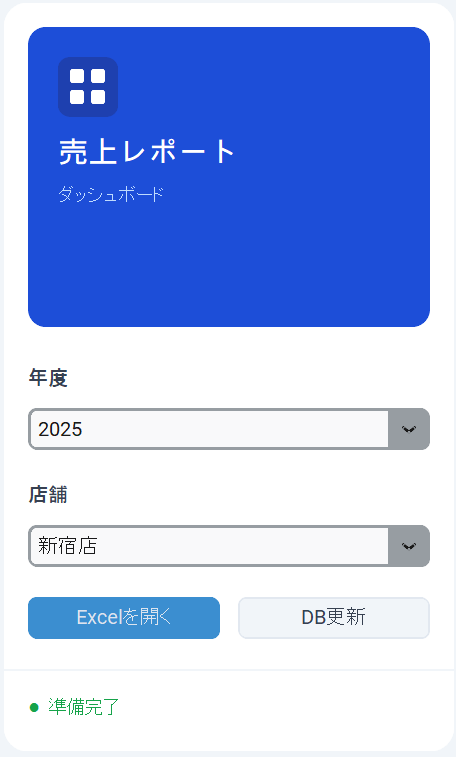
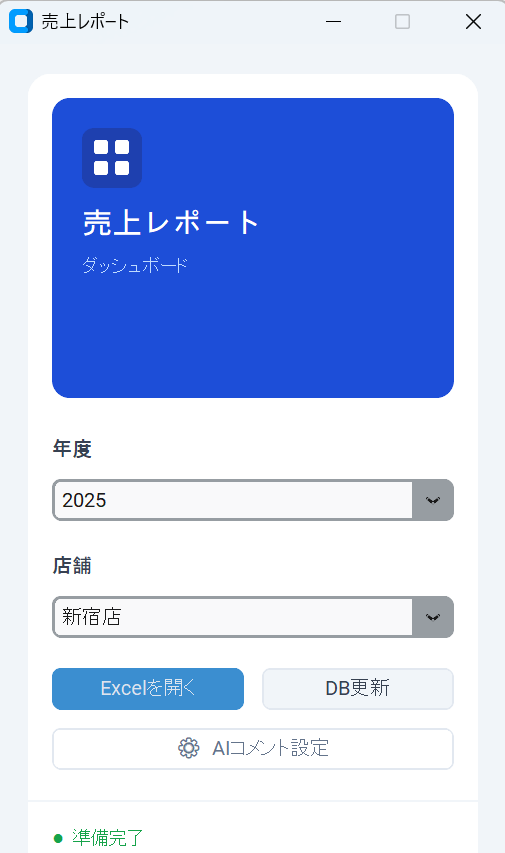
feat: KPIダッシュボードにAI自動コメント機能を追加
- ai_commentary.py: Claude API (claude-sonnet-4-6) でKPIを要約した
  日本語コメントを生成。金額は万円単位に整形し単位換算ミスを防止
- app_config.py + GUI設定ダイアログ: BYOキー方式（config.jsonに保存）の
  オプトイン。APIキー未設定・anthropic未導入・通信エラー時は従来通り
  レポートのみ生成するフォールバック
- sales_report.spec: anthropicライブラリを同梱（APIキーは非同梱）
- README: タイトル・機能説明・使い方・技術スタックにAI機能を追記
- .gitignore: config.json（APIキー）を除外

diff --git a/app/ai_commentary.py b/app/ai_commentary.py
@@ -1,0 +1,94 @@
+"""
+KPIダッシュボード向け AIコメント生成（任意機能）
+
+オフライン・単一exeという基本動作を壊さないため、この機能は完全にオプトインです:
+  - GUIの「AIコメント設定」で有効化＋APIキーを保存（config.json）した場合に動作
+  - CLI等でGUIを使わない場合は、環境変数 ANTHROPIC_API_KEY だけでも動作（後方互換）
+  - キーが無い / 無効 / ネットが無い / API がエラー の場合は None を返すだけ
+    （呼び出し側はコメント欄を出さず、従来通りのレポートを生成する）
+
+モデルは claude-sonnet-4-6 を使用。
+"""
+import os
+
+from app_config import load_config
+
+MODEL = "claude-sonnet-4-6"
+
+MONTH_NAMES = ["1月", "2月", "3月", "4月", "5月", "6月",
+               "7月", "8月", "9月", "10月", "11月", "12月"]
+
+_SYSTEM = (
+    "あなたは小売業の売上データを分析するアナリストです。"
+    "与えられた年間KPIをもとに、経営者向けの簡潔な日本語コメントを作成してください。\n"
+    "要件:\n"
+    "- 2〜3文、合計150字程度の文章で書く。\n"
+    "- 傾向・注目点を述べ、最後に次の打ち手を1つ含める。\n"
+    "- 数値は要点だけに絞り、冗長な説明や前置きは書かない。\n"
+    "- 金額は与えられた『万円』単位の数値をそのまま使い、億・百万などへ単位変換しない。\n"
+    "- 箇条書き・Markdown記法（#, *, -, ** 等）は使わず、本文のみを返す。"
+)
+
+
+def _man(value: int) -> str:
+    """円 → 万円（四捨五入）に整形。大きな桁数による単位換算ミスを防ぐ。"""
+    return f"{round(value / 10000):,}万円"
+
+
+def _build_prompt(kpi: dict) -> str:
+    monthly = "、".join(
+        f"{MONTH_NAMES[i]}:{_man(v)}" for i, v in enumerate(kpi["monthly_sales"])
+    )
+    ranking = "、".join(
+        f"{i + 1}位 {store}（{_man(sales)}）"
+        for i, (store, sales) in enumerate(kpi["store_ranking"][:3])
+    )
+    mom = kpi["last_month_mom"]
+    mom_str = f"{mom * 100:+.1f}%"
+    return (
+        "※金額はすべて『万円』単位。本文でもこの単位のまま使うこと。\n"
+        f"対象年度: {kpi['year']}年\n"
+        f"年間総売上（全店舗合計）: {_man(kpi['total_annual'])}\n"
+        f"月別売上: {monthly}\n"
+        f"最高月: {MONTH_NAMES[kpi['best_month'] - 1]}（{_man(kpi['best_sales'])}）\n"
+        f"最低月: {MONTH_NAMES[kpi['worst_month'] - 1]}（{_man(kpi['worst_sales'])}）\n"
+        f"月平均売上: {_man(kpi['avg_month'])}\n"
+        f"店舗別年間売上ランキング: {ranking}\n"
+        f"平均客単価: {kpi['avg_unit_price']:,}円\n"
+        f"年間総客数: {kpi['total_customers']:,}人\n"
+        f"直近の前月比（12月／11月）: {mom_str}\n"
+    )
+
+
+def generate_kpi_commentary(kpi: dict) -> str | None:
+    """KPI辞書からAIコメントを生成して返す。
+
+    APIキーが無い・anthropic未導入・通信失敗などの場合は None を返す
+    （例外は送出せず、レポート生成を止めない）。
+    """
+    cfg = load_config()
+    env_key = (os.environ.get("ANTHROPIC_API_KEY") or "").strip()
+    key = (cfg.get("api_key") or "").strip() or env_key
+    if not key:
+        return None
+
+    # 有効化判定: GUIトグルが優先。configが無い/未設定でも、環境変数があればCLI後方互換でオン。
+    enabled = bool(cfg.get("ai_enabled", False)) or bool(env_key)
+    if not enabled:
+        return None
+
+    try:
+        import anthropic  # 遅延インポート: 未導入でもオフライン動作を壊さない
+
+        client = anthropic.Anthropic(api_key=key)
+        message = client.with_options(timeout=20.0, max_retries=1).messages.create(
+            model=MODEL,
+            max_tokens=512,
+            system=_SYSTEM,
+            messages=[{"role": "user", "content": _build_prompt(kpi)}],
+        )
+        text = next((b.text for b in message.content if b.type == "text"), "").strip()
+        return text or None
+    except Exception:
+        # ネットワーク断・APIエラー・キー不正などはすべて無視してコメントなしに倒す
+        return None

diff --git a/app/generate_report.py b/app/generate_report.py
@@ -30,6 +30,8 @@ from openpyxl.formatting.rule import CellIsRule, ColorScaleRule
 from openpyxl.styles import Alignment, Border, Font, PatternFill, Side
 from openpyxl.utils import get_column_letter
 
+from ai_commentary import generate_kpi_commentary
+
 MONTH_NAMES = ["1月", "2月", "3月", "4月", "5月", "6月",
                "7月", "8月", "9月", "10月", "11月", "12月"]
 
@@ -72,10 +74,22 @@ def _yen_str(value: int) -> str:
 
 # ── ヘルパー ──────────────────────────────────────────────────────────────
 
+def _read_csv_auto(path: Path) -> pd.DataFrame:
+    """UTF-8 → Shift_JIS(cp932) の順に試して読み込む。
+    Excelの「CSV UTF-8」も「CSV (カンマ区切り)」も両方扱えるようにする。
+    """
+    for enc in ("utf-8-sig", "cp932"):
+        try:
+            return pd.read_csv(path, encoding=enc, parse_dates=["日付"])
+        except UnicodeDecodeError:
+            continue
+    raise ValueError(f"{path.name}: 文字コードを判定できません（UTF-8 / Shift_JIS のいずれかで保存してください）")
+
+
 def load_csv_files(input_dir: Path, year: int) -> pd.DataFrame:
     frames = []
     for csv_path in sorted(input_dir.glob("*.csv")):
-        df = pd.read_csv(csv_path, encoding="utf-8-sig", parse_dates=["日付"])
+        df = _read_csv_auto(csv_path)
         frames.append(df)
     if not frames:
         raise FileNotFoundError(f"CSVファイルが見つかりません: {input_dir}")
@@ -98,7 +112,7 @@ def import_csv_to_db(input_dir: Path, db_path: Path = DB_PATH) -> None:
     REQUIRED = {"日付", "店舗名", "売上金額", "客数"}
     frames = []
     for csv_path in sorted(input_dir.glob("*.csv")):
-        df = pd.read_csv(csv_path, encoding="utf-8-sig", parse_dates=["日付"])
+        df = _read_csv_auto(csv_path)
         missing = REQUIRED - set(df.columns)
         if missing:
             raise ValueError(f"{csv_path.name}: 必須列が不足しています → {', '.join(sorted(missing))}")
@@ -263,6 +277,40 @@ def _color_scale(ws, cell_range: str):
         mid_type="percentile", mid_value=50, mid_color="E2E8F0",
         end_type="max",        end_color="C6EFCE",
     ))
+
+
+def _write_ai_insight(ws, text: str, start_row: int = 21):
+    """AI生成コメントを start_row 以降に1ブロック書き込む（凡例の下に配置）"""
+    ws.row_dimensions[start_row - 1].height = 8  # スペーサー
+
+    # ── 見出し ──
+    ws.row_dimensions[start_row].height = 22
+    ws.merge_cells(start_row=start_row, start_column=1, end_row=start_row, end_column=13)
+    h = ws.cell(row=start_row, column=1, value="💡 AIインサイト（自動生成コメント）")
+    h.font = Font(bold=True, size=11, color="FFFFFF")
+    h.fill = PatternFill("solid", fgColor="2E75B6")
+    h.alignment = Alignment(horizontal="center", vertical="center")
+
+    # ── 本文（折り返し表示）──
+    body_start, body_end = start_row + 1, start_row + 5
+    for r in range(body_start, body_end + 1):
+        ws.row_dimensions[r].height = 18
+    ws.merge_cells(start_row=body_start, start_column=1, end_row=body_end, end_column=13)
+    c = ws.cell(row=body_start, column=1, value=text)
+    c.font = Font(size=10, color="1F2937")
+    c.fill = PatternFill("solid", fgColor="EBF3FB")
+    c.alignment = Alignment(horizontal="left", vertical="top", wrap_text=True)
+
+    # ── 枠線（結合範囲の外周）──
+    med, no = Side(style="medium"), Side(style=None)
+    for r in range(body_start, body_end + 1):
+        for col in range(1, 14):
+            ws.cell(row=r, column=col).border = Border(
+                left=med if col == 1 else no,
+                right=med if col == 13 else no,
+                top=med if r == body_start else no,
+                bottom=med if r == body_end else no,
+            )
 
 
 # ── シート生成 ─────────────────────────────────────────────────────────────
@@ -449,6 +497,23 @@ def write_kpi_sheet(wb: Workbook, data: pd.DataFrame,
     # 凡例行の全セルに枠線を付与（結合末尾セルの右枠含む）
     for col in range(1, 14):
         ws.cell(row=19, column=col).border = BORDER
+
+    # ── AIインサイト（任意・環境変数 ANTHROPIC_API_KEY がある場合のみ）──
+    kpi_summary = {
+        "year": year,
+        "total_annual": total_annual,
+        "monthly_sales": _sales_vals,
+        "best_month": best_m,   "best_sales": _best_s,
+        "worst_month": worst_m, "worst_sales": _worst_s,
+        "avg_month": avg_m,
+        "store_ranking": [(store, int(sales)) for store, sales in store_annual.items()],
+        "avg_unit_price": avg_unit_price,
+        "total_customers": total_customers,
+        "last_month_mom": dec_mom - 1.0,
+    }
+    commentary = generate_kpi_commentary(kpi_summary)
+    if commentary:
+        _write_ai_insight(ws, commentary)
 
 
 def write_summary_sheet(wb: Workbook, sales_pivot: pd.DataFrame,

diff --git a/app/app_config.py b/app/app_config.py
@@ -1,0 +1,44 @@
+"""
+アプリ設定の読み書き（AIコメント機能のオン/オフ・APIキー）
+
+設定は exe（開発時はプロジェクトルート）の隣の config.json に保存する。
+ファイルが無ければ空dictを返し、呼び出し側は従来動作（環境変数のみ）に倒れる。
+"""
+import json
+import sys
+from pathlib import Path
+
+_BASE = Path(sys.executable).parent if getattr(sys, "frozen", False) else Path(__file__).parent.parent
+CONFIG_PATH = _BASE / "config.json"
+
+
+def load_config() -> dict:
+    """config.json を読み込む。存在しない・壊れている場合は {} を返す。"""
+    if not CONFIG_PATH.exists():
+        return {}
+    try:
+        data = json.loads(CONFIG_PATH.read_text(encoding="utf-8"))
+        return data if isinstance(data, dict) else {}
+    except Exception:
+        return {}
+
+
+def save_config(ai_enabled: bool, api_key: str, key_name: str | None = None) -> None:
+    """AI設定を config.json に保存する。
+
+    key_name は管理用メモ（任意・動作には不使用）。None のときは
+    既存の config.json の値を引き継ぐ（GUI保存で手書きのメモが消えない）。
+    """
+    if key_name is None:
+        key_name = load_config().get("key_name", "")
+    CONFIG_PATH.write_text(
+        json.dumps(
+            {
+                "ai_enabled": bool(ai_enabled),
+                "key_name": (key_name or "").strip(),
+                "api_key": (api_key or "").strip(),
+            },
+            ensure_ascii=False, indent=2,
+        ),
+        encoding="utf-8",
+    )

diff --git a/README.md b/README.md
@@ -1,36 +1,19 @@
-# Excel/CSV 月別売上集計レポート自動生成
+# Excel/CSV 売上集計レポート自動生成（AIコメント付き）
 
-複数店舗の日別売上CSVを自動集計し、年度・店舗を切り替えながら月別Excelレポートを確認できるツールです。
+複数店舗の日別売上CSVを自動集計し、年度・店舗を切り替えながら月別Excelレポートを確認できるツールです。KPIダッシュボードには、売上傾向と次の打ち手をAIが自動でコメントする機能も搭載しています。
 
 > 📌 このツールはポートフォリオ作品です。類似ツールのご依頼は[ランサーズのプロフィール](https://www.lancers.jp/profile/hongu_works?ref=header_menu)からお願いします。
 
 ## デモ
 
-### ツール画面
-年度・店舗の切り替えとExcel出力をワンクリックで操作できる画面
+<img src="docs/demo_banner.png" width="600">
 
-<img src="docs/gui_launcher.png" width="300">
+## こんな方におすすめ
 
-### KPIダッシュボード
-年間総売上・最高/最低/平均月売上・売上No.1店舗・平均客単価・前月比の6つの指標を大きく表示し、月別全店の売上推移と前月比を増減で色分けした一覧表を掲載
-
-<img src="docs/KPIダッシュボード.png" width="550">
-
-### 月別集計サマリー
-全店舗の月別売上・客数を一覧表で示し、全店合計の推移と店舗別の比較を2つの棒グラフで可視化
-
-![月別集計サマリー](docs/月別集計サマリー.png)
-
-### 店舗詳細
-選択中の店舗の月別売上・客数・客単価・前月比・累計売上の一覧表と、売上推移の折れ線グラフ
-
-<img src="docs/店舗詳細.png" width="500">
-
-## 対象クライアント
-
-- 複数店舗を持つ小売業・飲食業の経営者・店長
-- 毎月Excelで手集計している担当者
-- POSや会計ソフトからCSVエクスポートできる環境
+- 毎月、複数店舗のCSVをExcelに貼り付けて手集計している
+- 集計結果を経営層に報告する資料を毎回作り直している
+- 数字は集計できても「で、何が課題で次に何をすべきか」の一言を毎回考えるのに手間がかかっている
+- 店舗別の売上推移や前月比を、毎月パッと確認したい
 
 ## 使い方
 
@@ -54,15 +37,51 @@
 >     └── monthly_report.xlsx  ← 集計済みExcel
 > ```
 
-1. `sales_report.exe` をダブルクリックで起動（初回は自動でCSVを取り込みます）
-2. 年度ドロップダウンを選択
-   KPIダッシュボード・月別集計サマリーを更新、店舗リストも切り替わる
-3. 店舗ドロップダウンで任意の店舗を選択
+1. `sales_report.exe` をダブルクリックで起動（初回は自動でCSVを取り込むため数秒がかかります）
+2. 確認したい年度をドロップダウンで選択
+3. 確認したい店舗をドロップダウンで選択
 4. Excelを開くボタンを選択
 5. 新しいCSVを追加した場合はDB更新ボタンを選択
-   CSVを再取り込みします（CSVにある行は上書き、CSVにない行はDBに保持）
 
-> **補足:** CSVの内容はツール内（`sales.db`）に保存されるので、取り込み済みのCSVファイルは削除しても動作に影響しません。
+> **補足:** 過去に取り込んだデータは消えません。同じ日付・店舗のデータは新しいCSVの内容で上書きされます。
+
+<img src="docs/gui_launcher.png" width="300">
+
+### AIコメントを使う場合（任意）
+
+AIインサイトは初期状態ではオフで、設定しなくても従来通りレポートは生成できます。利用にはご自身の Anthropic API キーが必要です。
+
+1. ツール画面の **「⚙ AIコメント設定」** を開く
+2. **「AIインサイトを有効にする」** にチェックを入れ、API キーを貼り付けて保存
+3. ダッシュボードが再生成され、KPIシートにAIコメントが追加されます
+
+<img src="docs/ai_settings.png" width="340">
+
+> - キーは各PCの `config.json` に保存され、**配布する exe には含まれません**。
+> - 使用モデル: `claude-sonnet-4-6`（利用量に応じた少額の従量課金が発生します）。
+
+## 生成されるExcelレポート
+
+ボタンひとつで、以下3つのシートを含むExcelファイル（`output/monthly_report.xlsx`）が出来上がります。
+
+### KPIダッシュボード
+年間総売上・最高/最低/平均月売上・売上No.1店舗・平均客単価・前月比の6つの指標を大きく表示し、月別全店の売上推移と前月比を増減で色分けした一覧表を掲載。さらに、AIコメント設定を有効にすると、売上傾向と次の打ち手をまとめたAIインサイトが自動で追記されます。
+
+<img src="docs/KPIダッシュボード.png" width="550">
+
+AIインサイト（自動生成コメント）の例：
+
+<img src="docs/AIインサイト.png" width="550">
+
+### 月別集計サマリー
+全店舗の月別売上・客数を一覧表で示し、全店合計の推移と店舗別の比較を2つの棒グラフで可視化
+
+![月別集計サマリー](docs/月別集計サマリー.png)
+
+### 店舗詳細
+選択中の店舗の月別売上・客数・客単価・前月比・累計売上の一覧表と、売上推移の折れ線グラフ
+
+<img src="docs/店舗詳細.png" width="500">
 
 ## 入力CSVのフォーマット
 
@@ -80,9 +99,9 @@
 | 売上金額 | 整数 | 当日売上（円） |
 | 客数 | 整数 | 来店客数 |
 
-複数店舗のCSVを同じフォルダに入れるだけで自動的に読み込みます。1ファイルに全店舗まとめてもOKです。
-
 **注意:** 列名は上記の通り正確に入力してください。列名が異なる場合はエラーになります。
+
+複数店舗のCSVを同じフォルダに入れるだけで自動的に読み込みます。1ファイルに全店舗まとめてもOKです。
 
 ---
 
@@ -98,6 +117,7 @@
 - **openpyxl** — Excelファイル生成・スタイリング・グラフ作成
 - **sqlite3** — 売上データの永続化（標準ライブラリ）
 - **customtkinter** — モダンなツール画面（丸みボタン・カラーテーマ対応）
+- **anthropic** — KPIのAIコメント生成（Claude API `claude-sonnet-4-6`・任意機能）
 - **PyInstaller** — 単一exe配布
 
 ### ディレクトリ構成
@@ -109,12 +129,15 @@
 ├── sales_report.spec          # PyInstallerビルド設定
 ├── app/                       # アプリ本体（exeはここから生成）
 │   ├── gui_launcher.pyw       # GUIエントリポイント
-│   └── generate_report.py     # CSV→DB→Excel生成のコアロジック
+│   ├── generate_report.py     # CSV→DB→Excel生成のコアロジック
+│   ├── ai_commentary.py       # KPIのAIコメント生成（任意機能）
+│   └── app_config.py          # AI設定（config.json）の読み書き
 ├── scripts/
 │   └── generate_sample_data.py  # サンプルCSV生成用（開発時のみ）
 ├── data/
 │   ├── sample/                # サンプル売上CSV
 │   └── sales.db               # CSV取り込み済みDB（gitignore）
+├── config.json                # AI設定（APIキー等／実行時生成・gitignore）
 ├── docs/                      # スクリーンショット
 ├── output/                    # 生成Excel出力先（gitignore）
 └── dist/                      # exe出力先（gitignore）